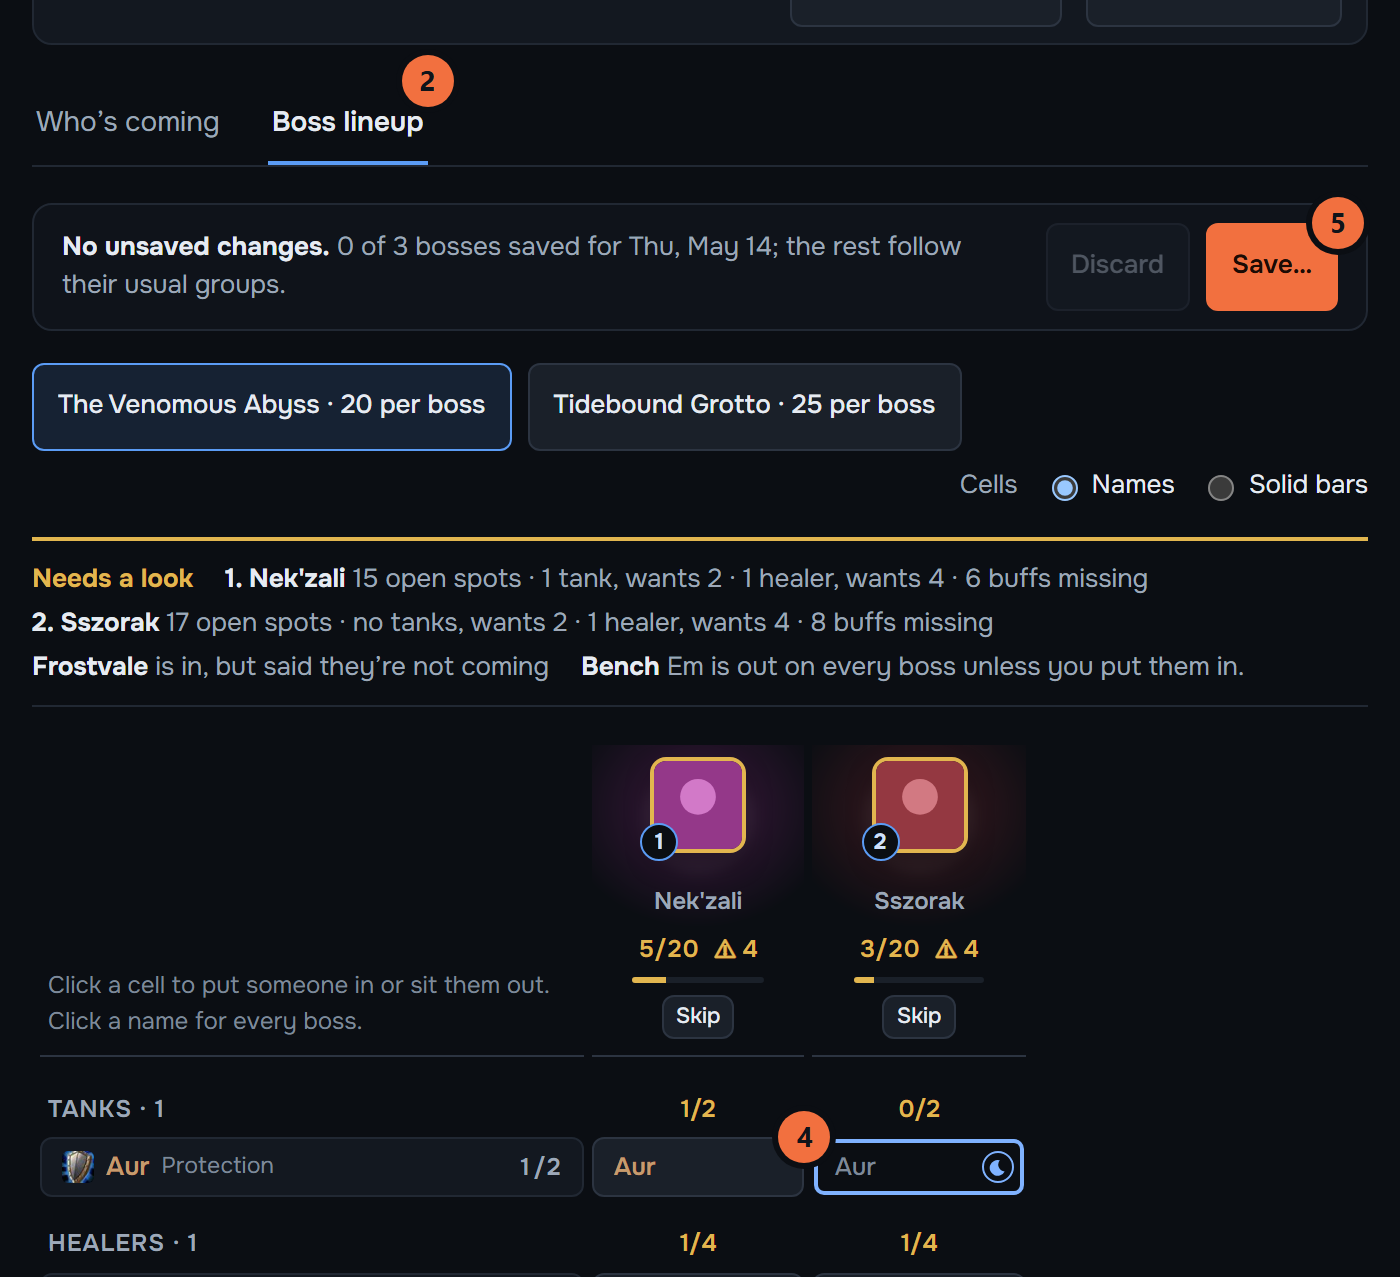
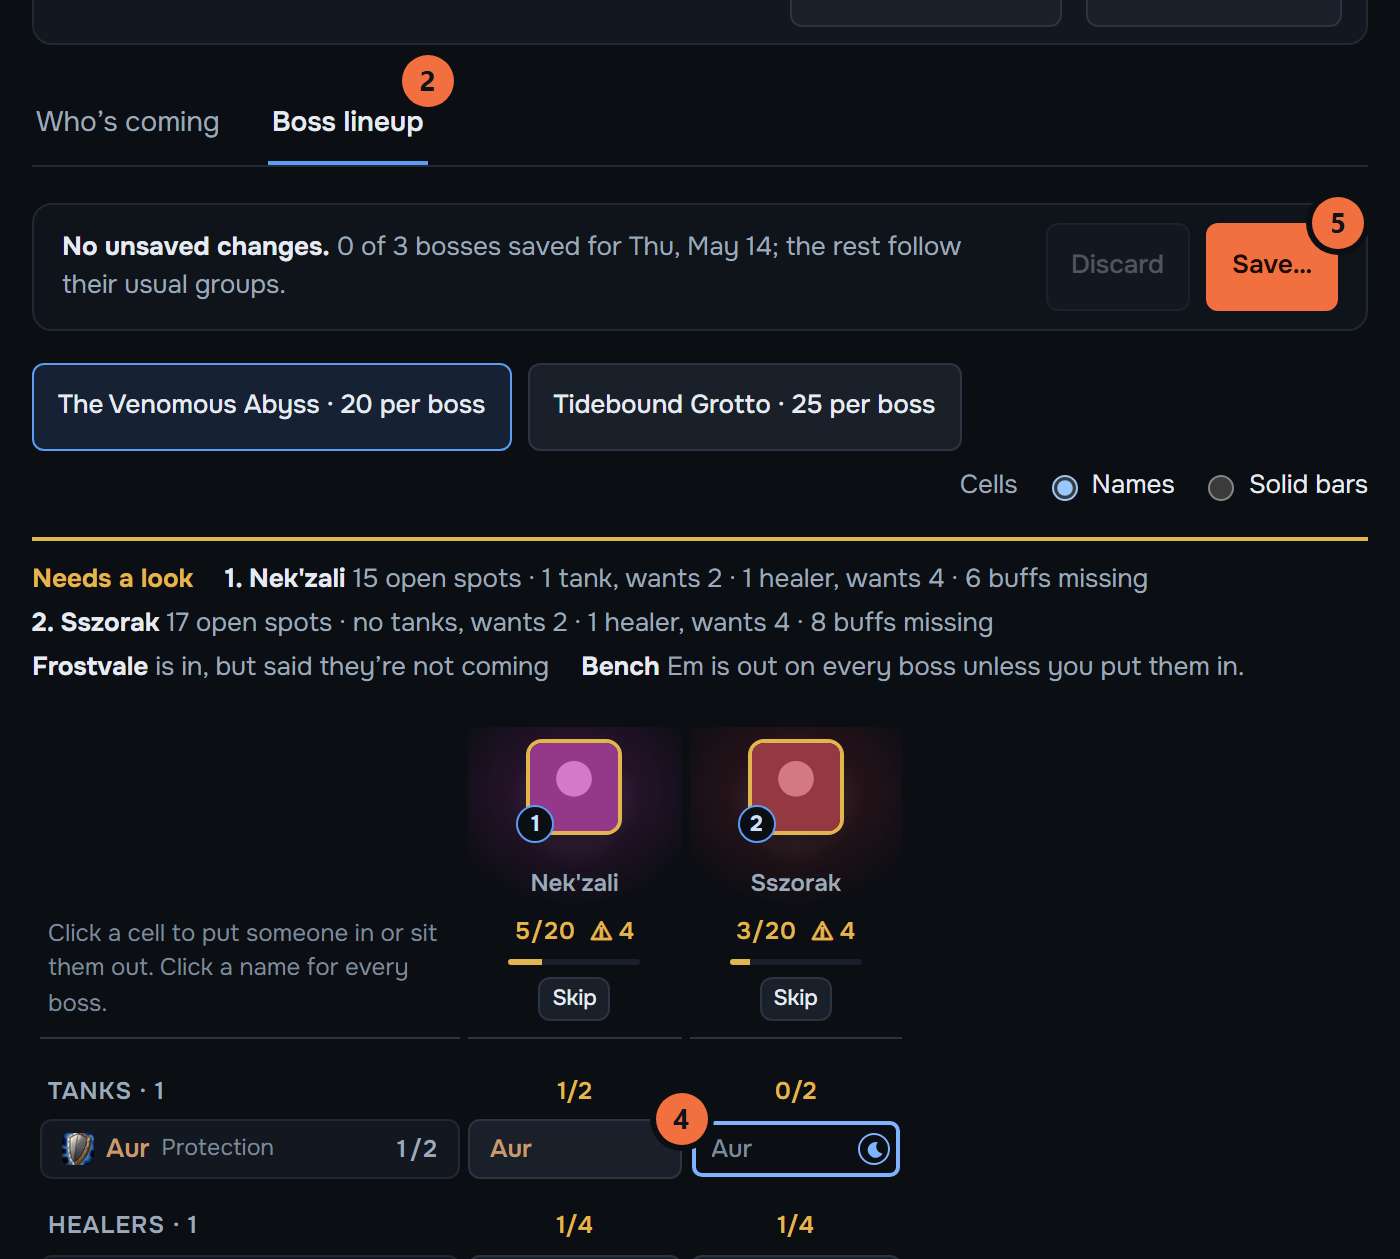
#1681: phone and light-mode fixes from the screenshots
The pinned raider column keeps a fixed width so long names and tags never
hide cells behind it; phones drop the spec and tag beside the name. The
not-coming stripes are lighter where a name sits on them, so it reads in
light mode, and Needs a look never shows half of a fourth line.

diff --git a/app/src/calendar/calendar.css b/app/src/calendar/calendar.css
@@ -1319,10 +1319,10 @@ a.night-chip:hover {
   /* Three lines; more scroll inside, a whole line at a time. */
   height: calc(3 * 22px);
   overflow-y: auto;
-  padding: var(--space-2) 0;
+  /* No bottom padding, so a fourth line never peeks under the third. */
+  padding: var(--space-2) 0 0;
   line-height: 22px;
   border-top: 2px solid var(--warn);
-  border-bottom: 1px solid var(--border);
   font-size: var(--text-sm);
 }
 
@@ -1369,13 +1369,20 @@ a.night-chip:hover {
     --blg-names: 140px;
   }
 
+  /* Room for the name: the spec and tag go (a cell's marker still says
+     who isn't coming), and the corner's how-to. */
   .blg-raider-spec,
+  .blg-raider-box .lineup-tag,
   .blg-corner .text-dim {
     display: none;
   }
 }
 
 .blg-grid {
+  /* The not-coming stripes: dark on a bar; lighter where a name sits on
+     them, lightest on light mode's pale cells, so the name still reads. */
+  --blg-stripe: rgb(11 14 19 / 0.55);
+
   border-collapse: separate;
   border-spacing: 4px 3px;
   font-size: var(--text-sm);
@@ -1584,7 +1591,10 @@ a.night-chip:hover {
   align-items: center;
   gap: 6px;
   box-sizing: border-box;
-  width: 100%;
+  /* Fixed, so a long name or tag never widens the pinned column past what
+     the grid's scroll padding allows for. */
+  width: var(--blg-names);
+  overflow: hidden;
   height: 30px;
   padding: 0 10px;
   border: 1px solid var(--border);
@@ -1641,6 +1651,8 @@ a.night-chip:hover {
 }
 
 .blg-raider-name {
+  flex: 0 1 auto;
+  min-width: 0;
   overflow: hidden;
   font-weight: 600;
   text-overflow: ellipsis;
@@ -1655,7 +1667,14 @@ a.night-chip:hover {
   white-space: nowrap;
 }
 
+.blg-raider-box .lineup-tag {
+  flex: none;
+  margin-left: 0;
+}
+
 .blg-raider-count {
+  flex: none;
+  margin-left: auto;
   color: var(--text-muted);
   font-size: var(--text-xs);
   font-weight: 600;
@@ -1703,6 +1722,14 @@ button.blg-cell {
 
 .blg-cell:disabled {
   cursor: default;
+}
+
+[data-style='names'] {
+  --blg-stripe: rgb(11 14 19 / 0.35);
+}
+
+:root[data-theme='light'] [data-style='names'] {
+  --blg-stripe: rgb(11 14 19 / 0.12);
 }
 
 /* Names: a slate cell with the character's name in class color. */
@@ -1759,7 +1786,7 @@ button.blg-cell[data-in='false']:hover:not(:disabled) {
 .blg-cell[data-conflict]::before {
   position: absolute;
   inset: 0;
-  background: repeating-linear-gradient(135deg, rgb(11 14 19 / 0.55) 0 4px, transparent 4px 9px);
+  background: repeating-linear-gradient(135deg, var(--blg-stripe) 0 4px, transparent 4px 9px);
   content: '';
   pointer-events: none;
 }
